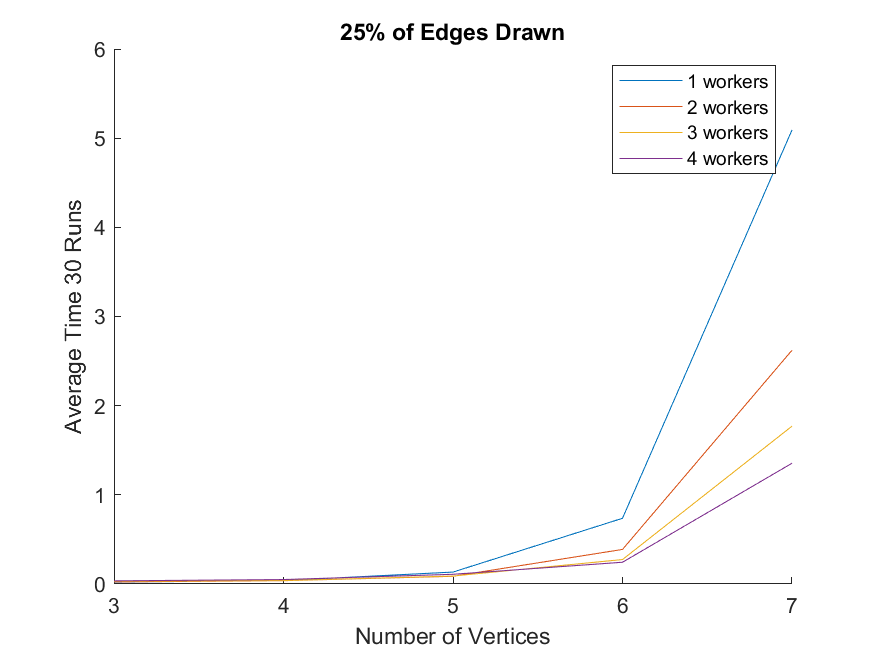
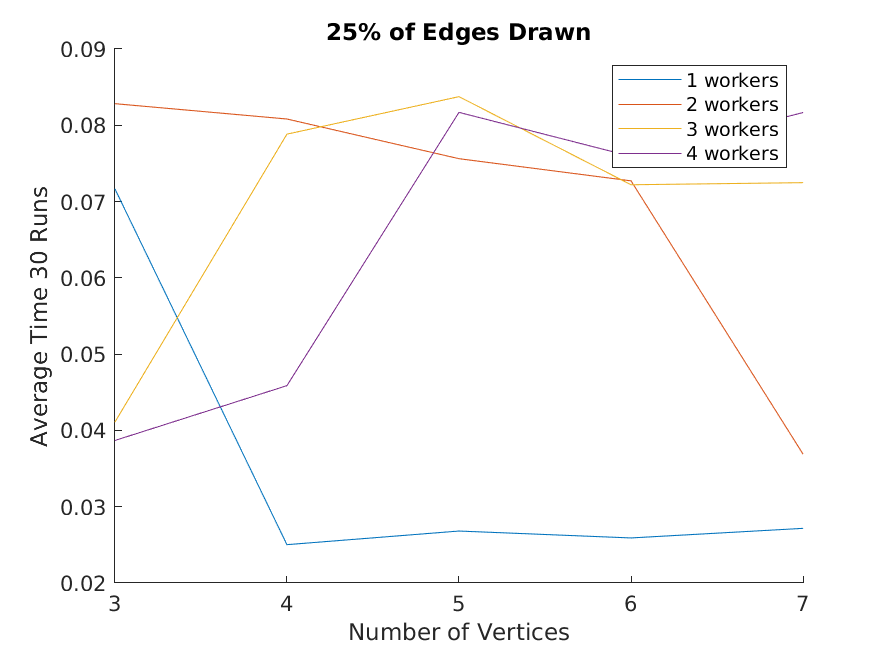
DFS parallel Results

diff --git a/ExecuteHamiltonianDFSParfor.m b/ExecuteHamiltonianDFSParfor.m
@@ -1,0 +1,24 @@
+function ExecuteHamiltonianPermParfor( n, G, numWorkers )
+%HAMILTONIANDFS Summary of this function goes here
+%   Detailed explanation goes here
+    parfor i = 1:n
+        doBFS(i,G,n);
+    end
+end
+
+function doBFS(starting_node, G, n)
+    BFS(starting_node, G, n);
+end
+
+function BFS(cur_path, G, n)
+    cur_node = cur_path(end);
+    if cur_node == n && size(cur_path,2) == n
+        %disp(cur_path)
+    else
+        for i = 1:n
+            if G(cur_node,i) && ~ismember(i,cur_path)
+                BFS([cur_path,i], G, n);
+            end
+        end
+    end
+end

diff --git a/TimeHamiltonianPerm.m b/TimeHamiltonianPerm.m
@@ -4,7 +4,8 @@ function t = TimeHamiltonianPerm(n, p, iterations, numWorkers)
         G = rand(n,n) <= p;
         tic
         %ExecuteHamiltonianPerm(n, G, numWorkers);
-        ExecuteHamiltonianPermParfor(n, G, numWorkers);
+        %ExecuteHamiltonianPermParfor(n, G, numWorkers);
+        ExecuteHamiltonianDFSParfor(n, G, numWorkers);
         time = toc;
         times = [times time];
     end
